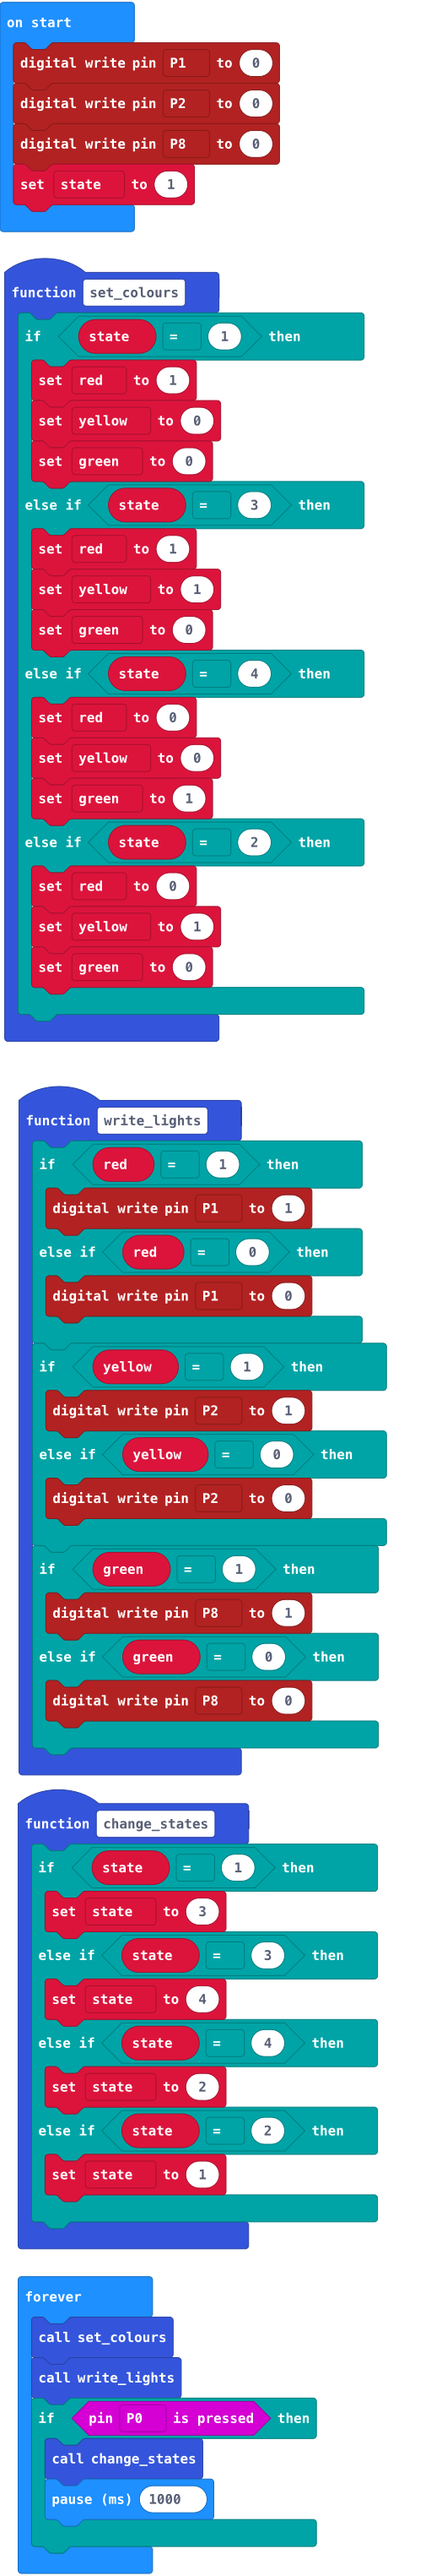
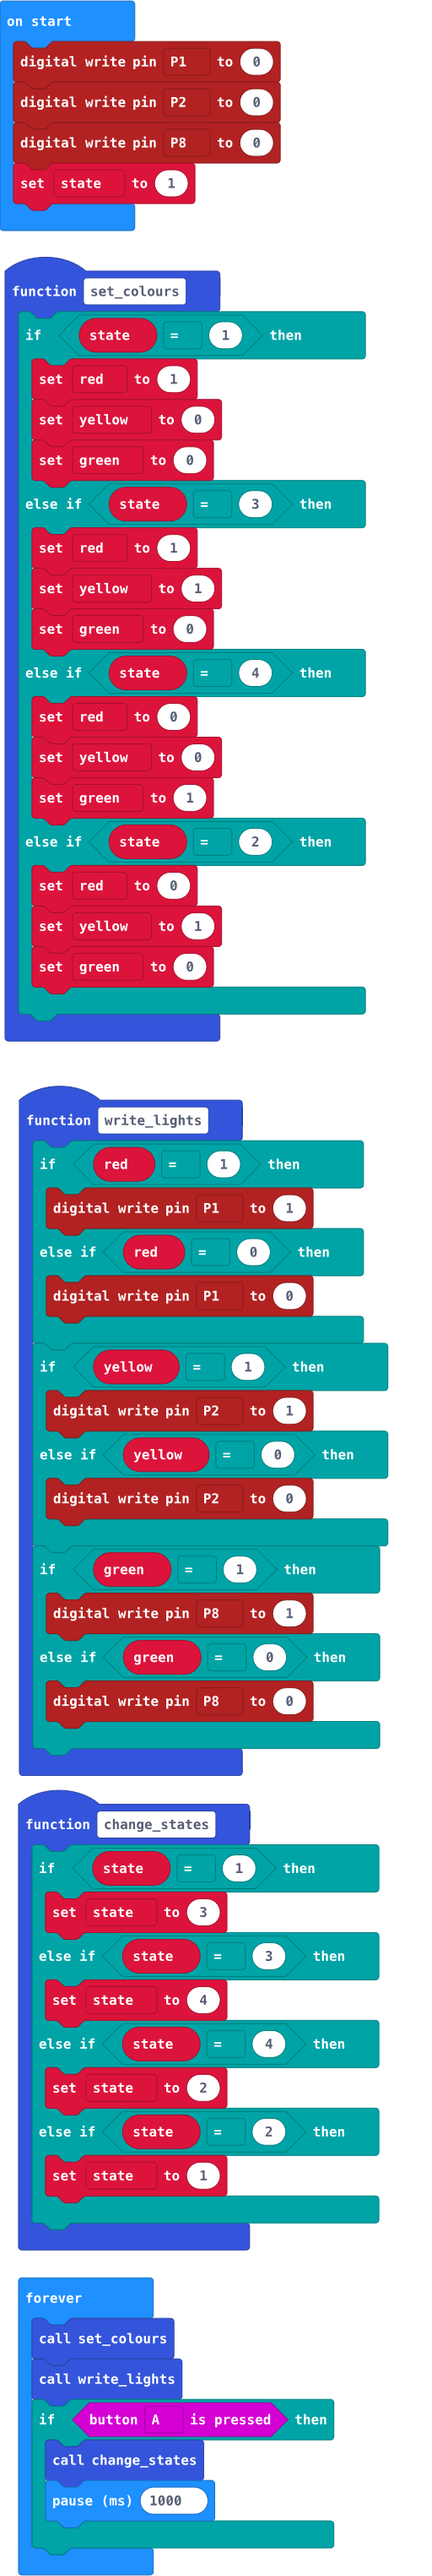
Moved pushbutton from P0 to P5 (shares physical button A)

diff --git a/main.ts b/main.ts
@@ -56,7 +56,7 @@ state = 1
 basic.forever(function () {
     set_colours()
     write_lights()
-    if (input.pinIsPressed(TouchPin.P0)) {
+    if (input.buttonIsPressed(Button.A)) {
         change_states()
         basic.pause(1000)
     }
